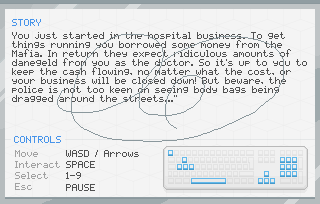
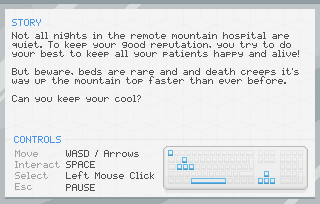
new instruction screen for level 2

diff --git a/src/game/levels.js b/src/game/levels.js
@@ -136,7 +136,7 @@ var levels = [
           spawnTimeFactorReduction: 1.04,
           spawnIntervalRange: [15000, 25000],
           maxSpawnIntervalRange: [5000, 9000],
-          healthRange: [25, 75],
+          healthRange: [35, 85],
           patientsWithFullHealth: 1,
           wealthRange: [15, 100],
           healthDecrease: 1.5,
